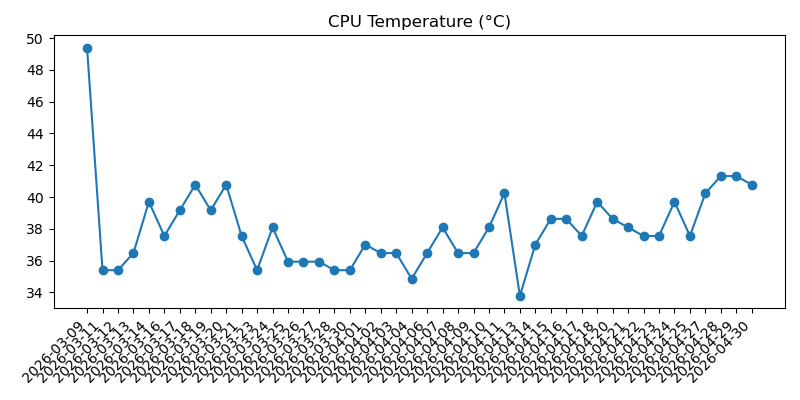
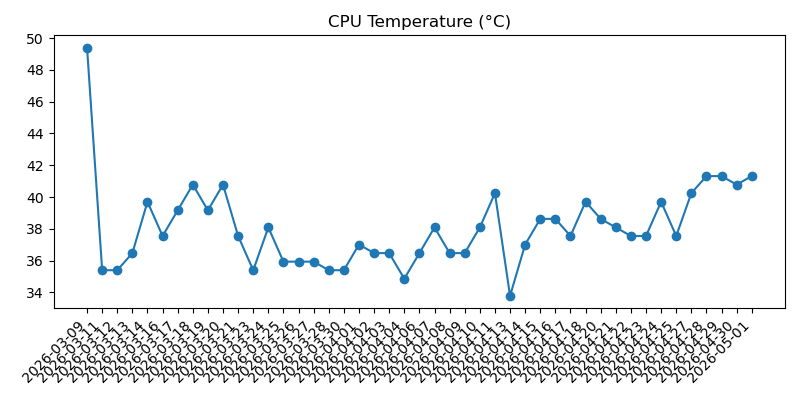
Add daily health and weather snapshot

Changed region(s): [[0.0625, 0.78, 0.9375, 0.96], [0.125, 0.42, 0.9688, 0.75]]

diff --git a/2026-05.md b/2026-05.md
@@ -1,0 +1,36 @@
+# May 2026
+
+## 2026-05-01 15:49:00
+
+### Machine
+- Uptime: up 1 week, 3 days, 17 hours, 34 minutes
+- CPU load (1m, 5m, 15m): 0.00, 0.00, 0.00
+- RAM used: 163 MB / 921 MB (17.7%)
+- Disk used (/): 3.5 GB / 28.8 GB (12.2%)
+- Free disk space (/): 24.1 GB
+- CPU temp: 41.3°C
+- Voltage / throttling: Undervoltage has occurred; Throttling has occurred
+
+### Reachability
+- Internet check (1.1.1.1): Reachable (4.3 ms)
+
+### Weather
+- Madrid:
+  - Condition: Intervalos nubosos
+  - Max temp: 23°C
+  - Min temp: 13°C
+  - Feels like: 18°C
+  - Chance of rain: 10%
+  - Warnings: None reported
+- Barcelona:
+  - Condition: Muy nuboso con lluvia escasa
+  - Max temp: 23°C
+  - Min temp: 18°C
+  - Feels like: 20°C
+  - Chance of rain: 90%
+  - Warnings: None reported
+
+### Health
+- Overall: Warning
+- Warning: Power issue detected: Undervoltage has occurred; Throttling has occurred
+
